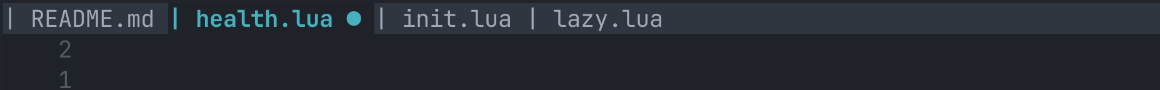
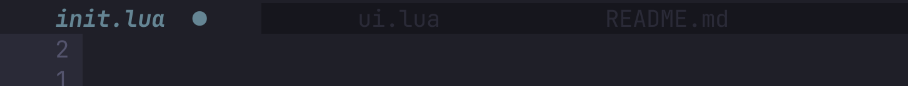
feat: add new configurable styles; several improvements
- (New!) Add `slanted` and `sloped` style
- Fix issue with separator hl
- Fix tab padding
- Document new look

diff --git a/docs/Recipes.md b/docs/Recipes.md
@@ -46,15 +46,11 @@ require("mantel-nvim").setup({
 require("mantel-nvim").setup({
   bufs = {
     decorators = {
-      prefix = " ",
-      suffix = " ",
       sep = ">",
     },
   },
 })
 ```
-
-![Default preview](./docs/default.png)
 
 ## Custom buffer name
 
@@ -100,66 +96,3 @@ require("mantel-nvim").setup({
 })
 
 ```
-
-## Pretty tabs with custom decorators and highlights
-
-```lua
-
-return {
-	"leo-alvarenga/mantel.nvim",
-	branch = "nightly",
-	opts = {
-		mode = "enhanced",
-
-		bufs = {
-			decorators = {
-				sep = " ",
-
-        -- To achieve this, Ill use custom decorators to give me more control over the styling of the tabs
-				prefix = "",
-				suffix = "",
-
-				extras = {
-					{
-						order = 1,
-						position = "prefix",
-						name = "prefix_custom",
-						text = " ",
-					},
-
-					{
-						order = 1,
-						position = "suffix",
-						name = "prefix_suffix",
-						text = " ",
-					},
-				},
-			},
-		},
-
-		highlight_overwrites = function()
-			local statusline = vim.api.nvim_get_hl(0, { name = "StatusLine" })
-			local tabsel = vim.api.nvim_get_hl(0, { name = "TabLineSel" })
-			local diag_info = vim.api.nvim_get_hl(0, { name = "DiagnosticInfo" })
-
-			return {
-				inactive = {
-					bg = tabsel.bg,
-					fg = statusline.bg,
-				},
-				active = {
-					bg = diag_info.fg,
-					fg = statusline.bg,
-					bold = true,
-				},
-				separator = {
-					bg = statusline.bg,
-					fg = statusline.bg,
-				},
-			}
-		end,
-	},
-}
-```
-
-![Pretty tabs preview](./images/pretty_tabs.png)

diff --git a/README.md b/README.md
@@ -38,7 +38,7 @@ The idea is simple: give users a **clean way to render buffer and tab indicators
 
 ## Preview
 
-Default configuration:
+Default configuration (using the `default` style):
 
 ![Default preview](./docs/images/with_icons.png)
 
@@ -46,9 +46,17 @@ Or without icons:
 
 ![Default preview](./docs/images/default.png)
 
-Custom configuration example:
+With the `slanted` style:
 
-![Custom preview](./docs/images/custom.png)
+![Slanted preview](./docs/images/style_slanted.png)
+
+With the `sloped` style:
+
+![Sloped preview](./docs/images/style_sloped.png)
+
+With a custom separator:
+
+![Separator preview](./docs/images/separator_example1.png)
 
 ## Features
 
